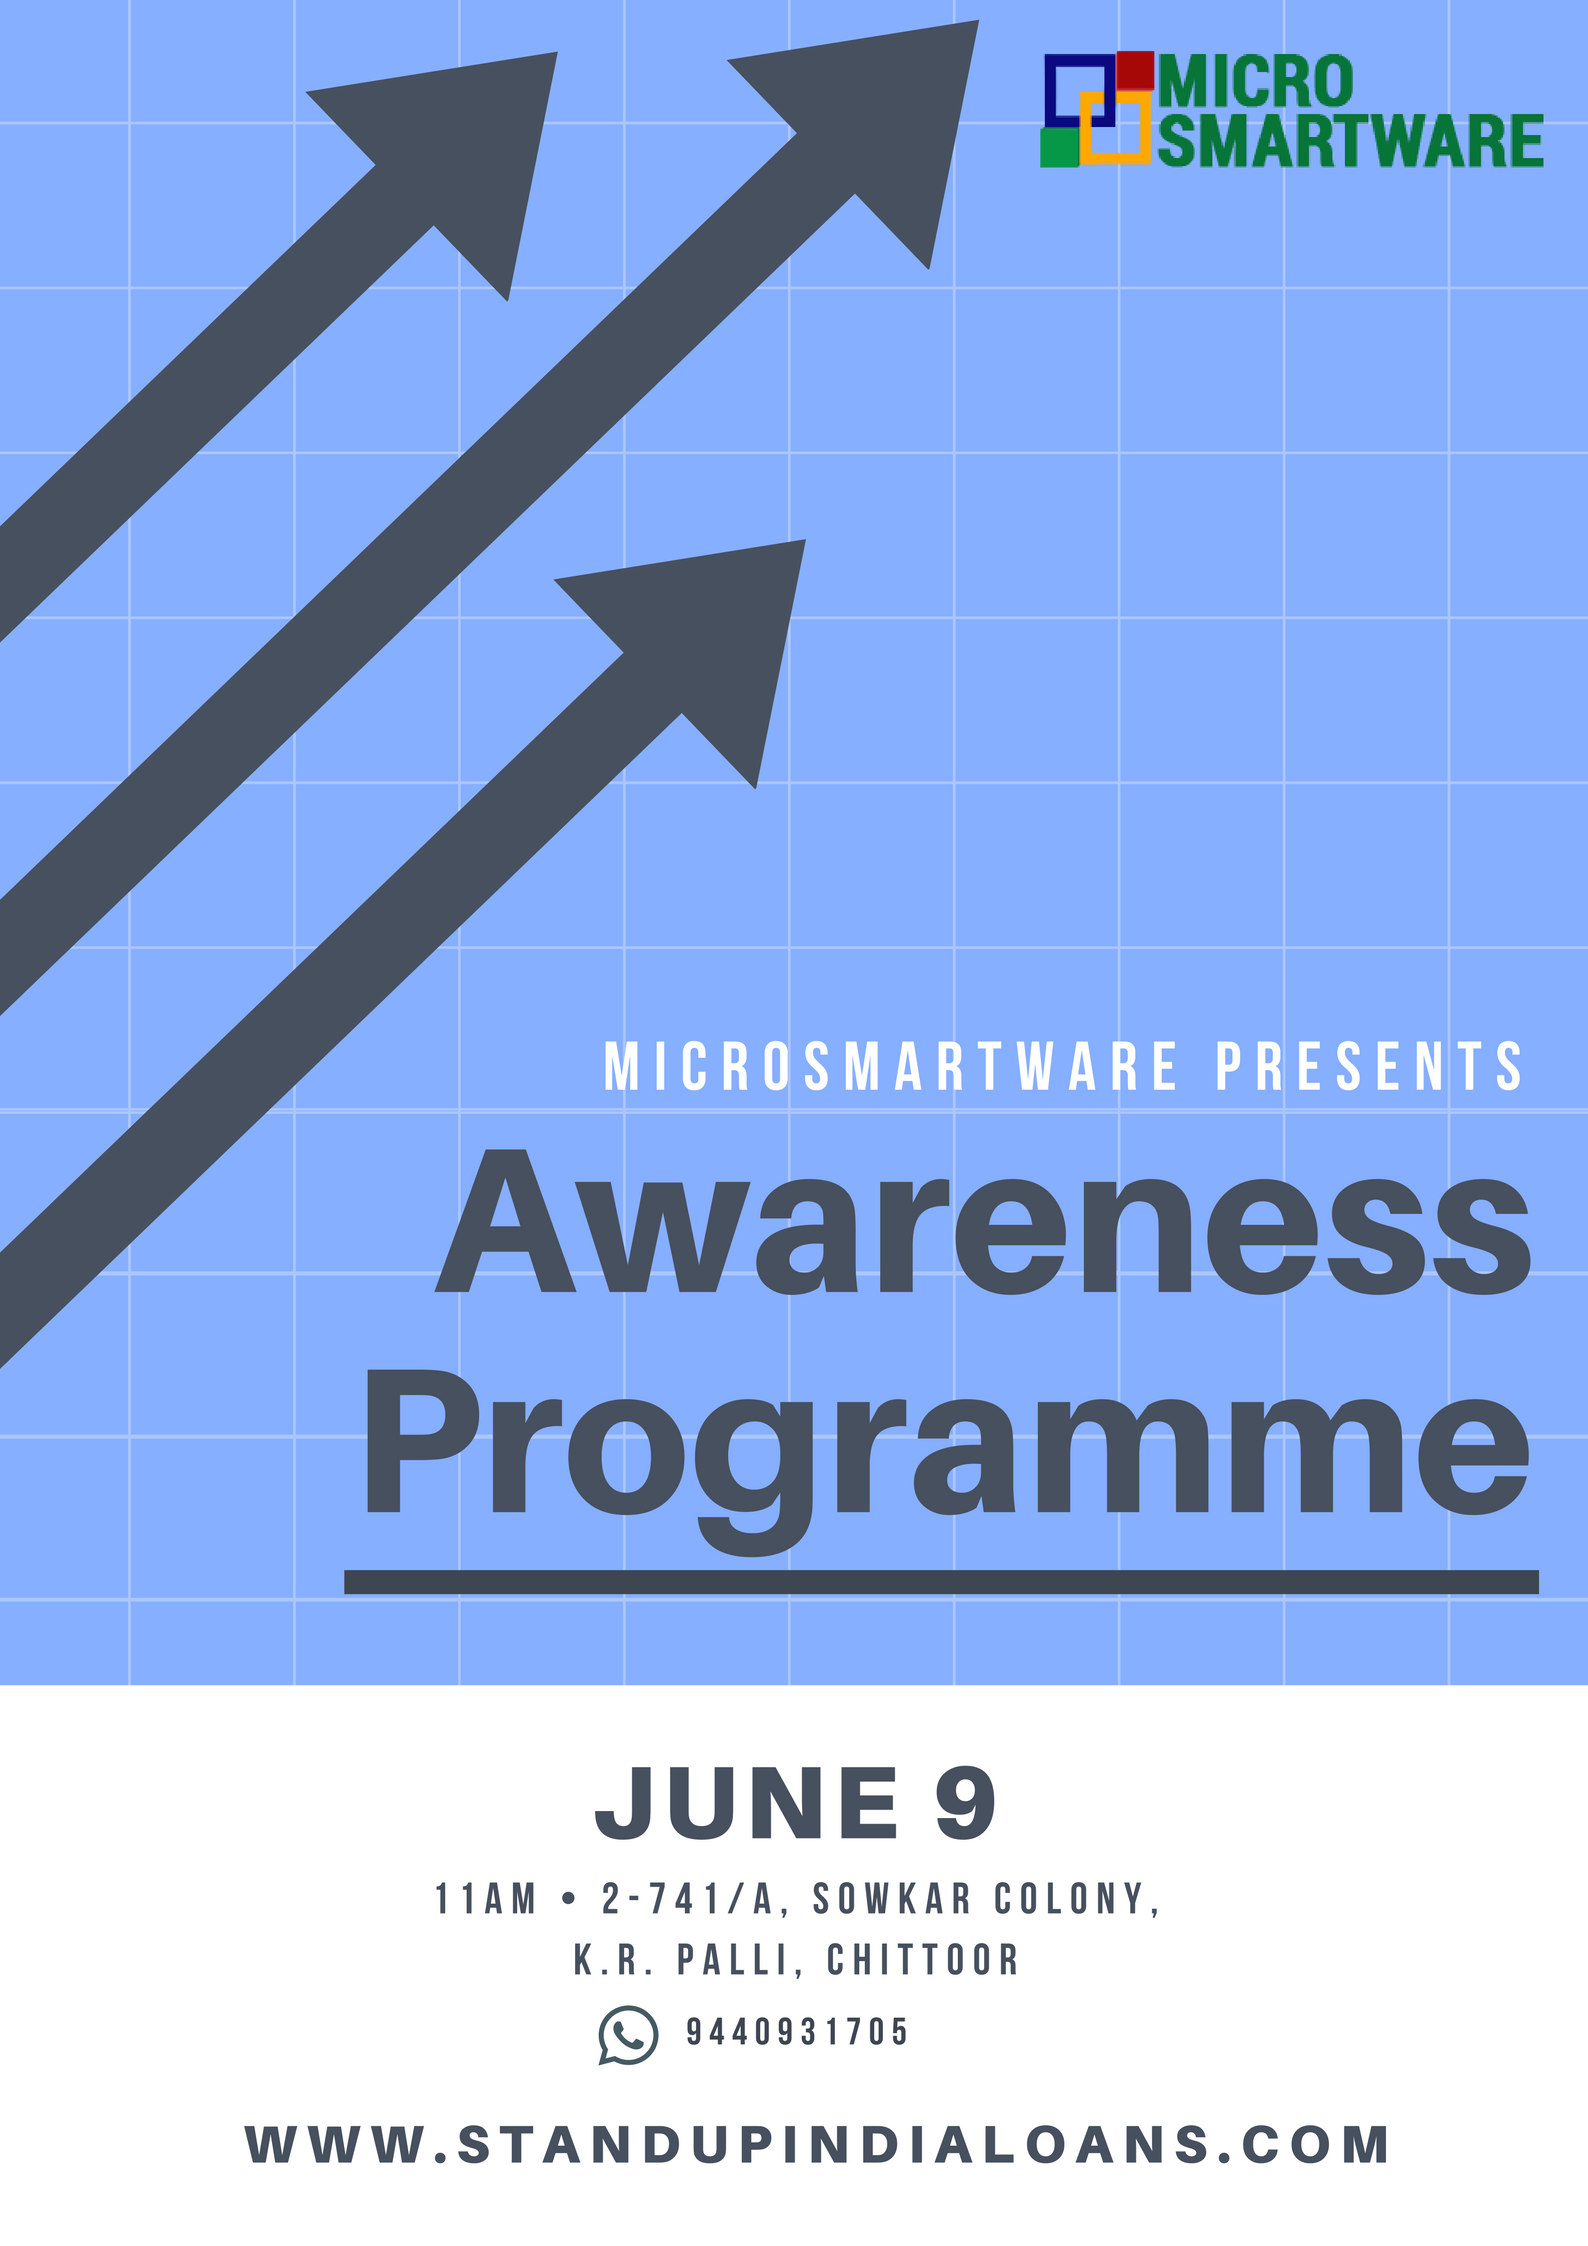
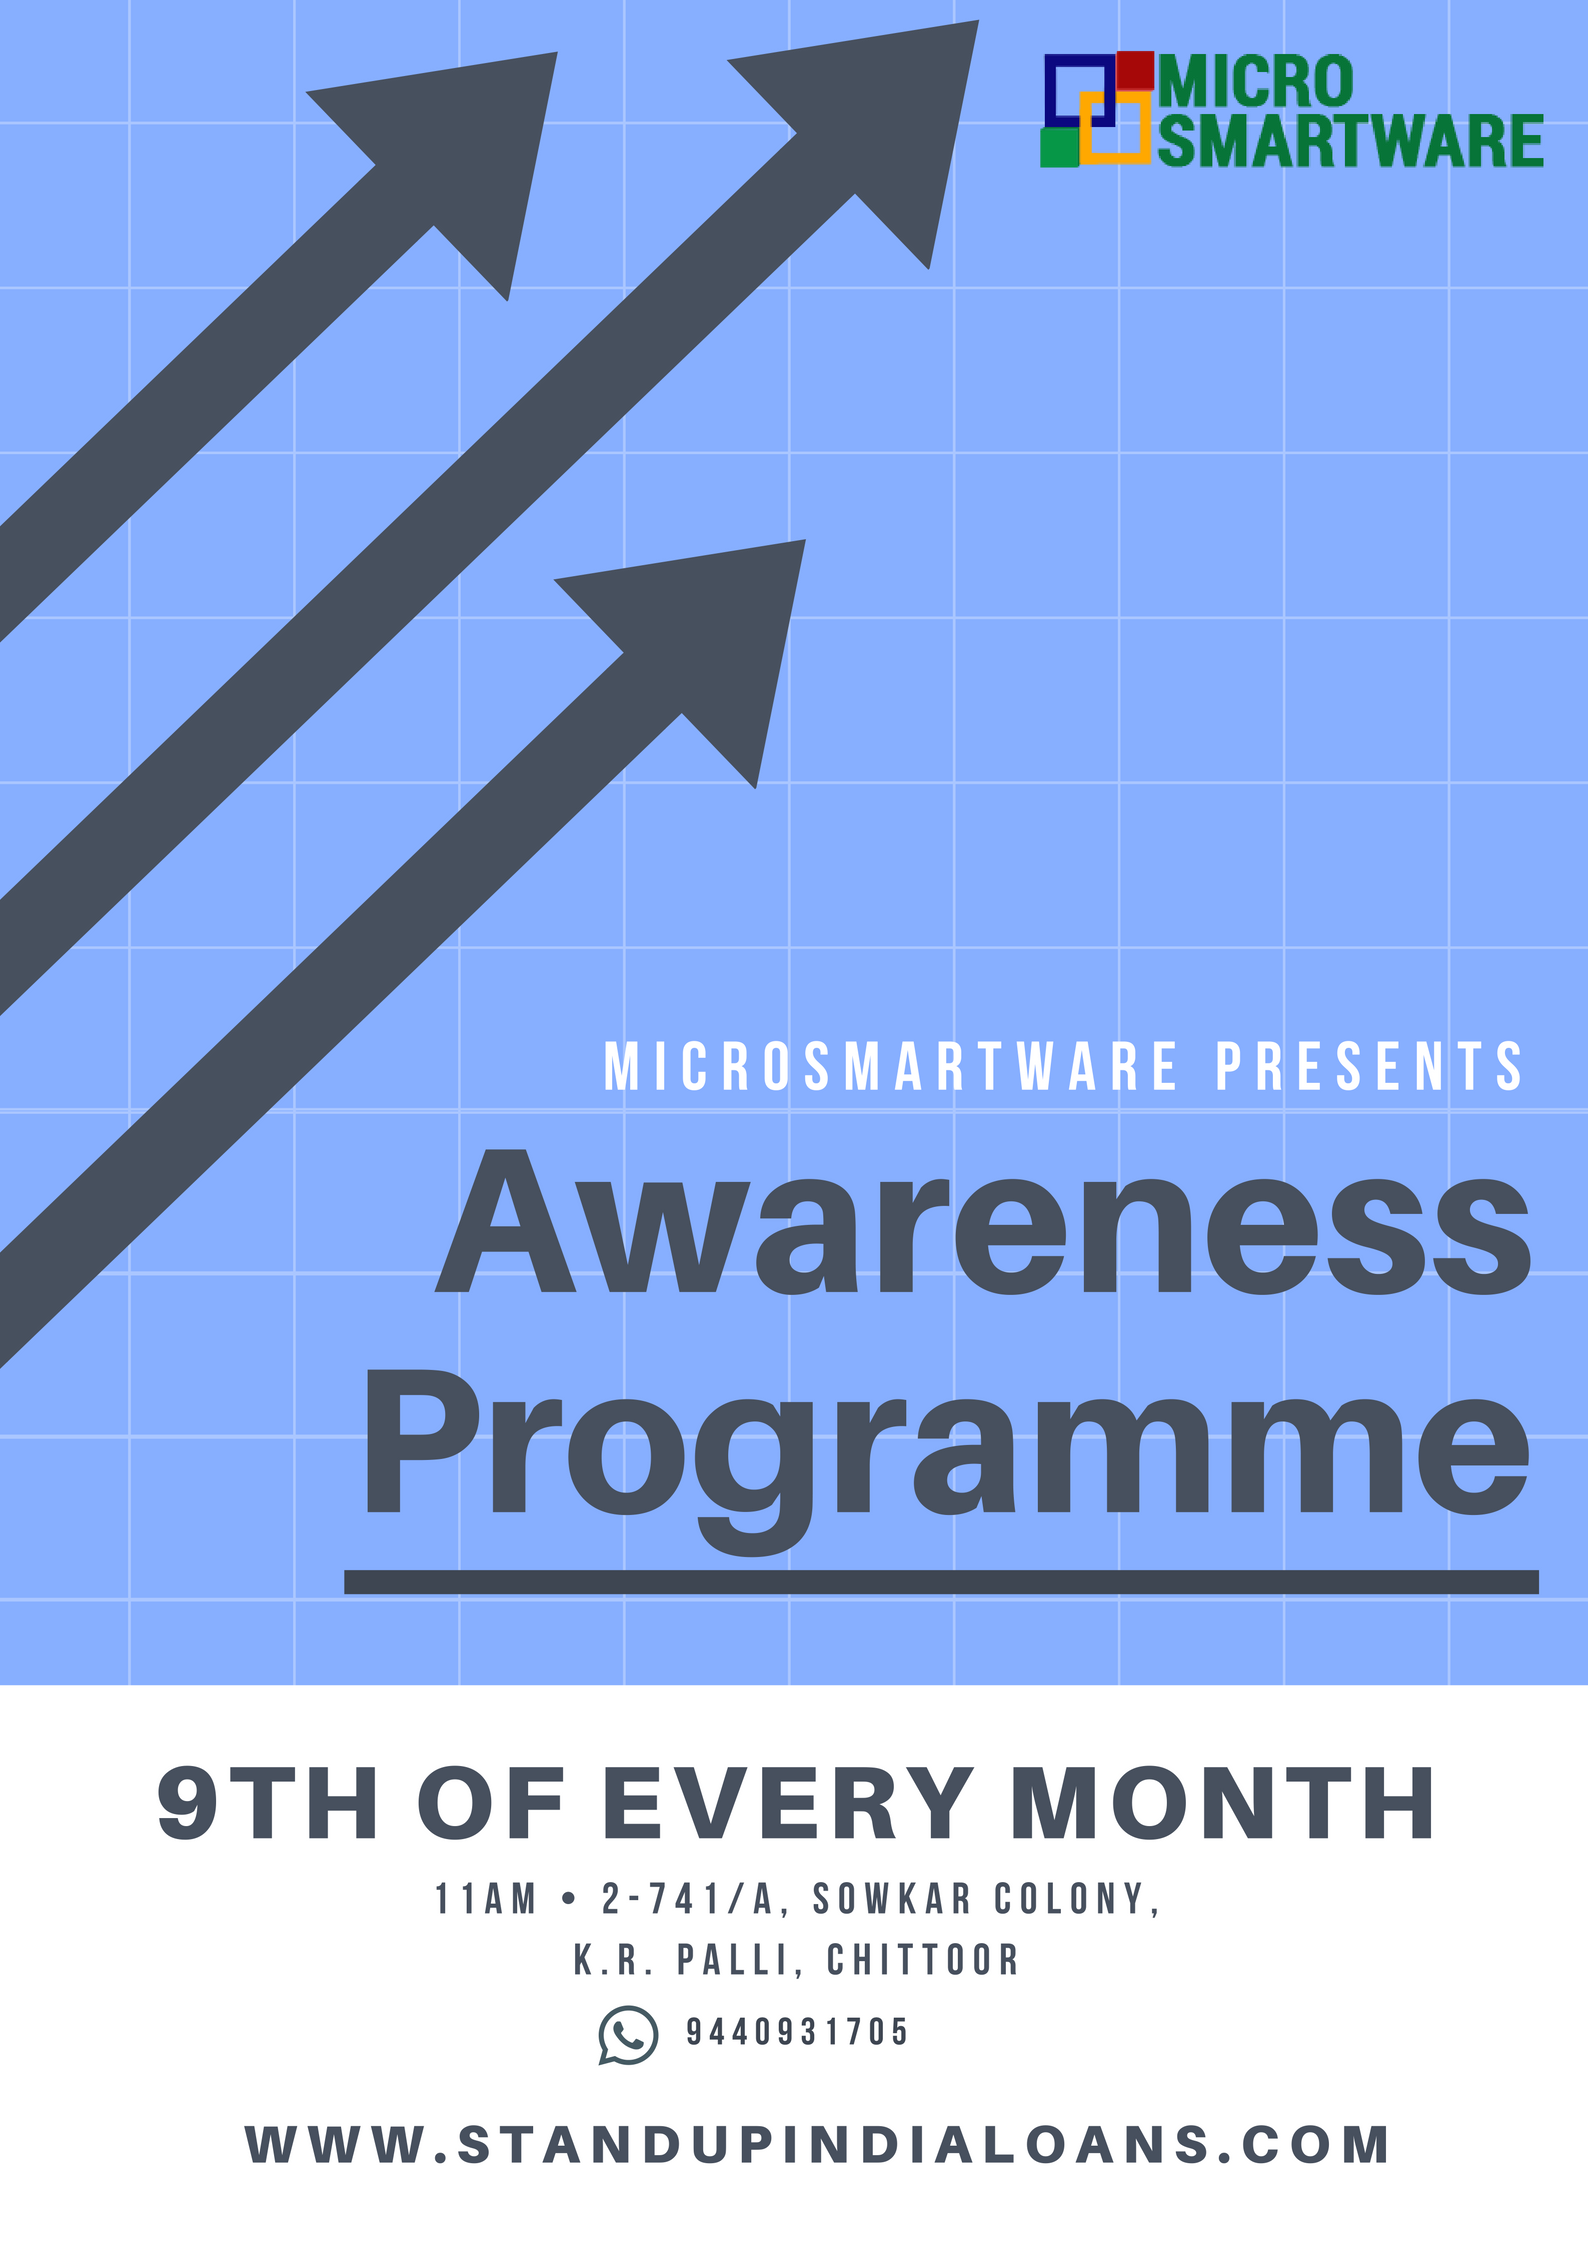
change event pics

Changed region(s): [[0.0926, 0.7792, 0.9257, 0.8415]]

diff --git a/src/components/Events.tsx b/src/components/Events.tsx
@@ -23,7 +23,7 @@ class Events extends React.Component<{}, {}> {
                             <div className="card-body">
                                 <h5 className="card-title">EDP Programme</h5>
                                 <p className="card-text">Entrepreneur Development Programme(EDP) <br />by DIC</p>
-				<img className="img-fluid" src="img/Awareness_Programme.png" />
+				<img className="img-fluid" src="img/EDP_Programme.png" />
 				<br />
                                 <a href="#" className="btn btn-primary">
                                     5th
@@ -37,11 +37,12 @@ class Events extends React.Component<{}, {}> {
                             <div className="card-body">
                                 <h5 className="card-title">Awareness Programme</h5>
                                 <p className="card-text"><small>Awareness programme on Economic support Schemes, Mudra Loans, PMEGP, StartUp India Loans, StandUp India Loans, MSME Loans and MEGA Loans by Microsmartware pvt ltd.</small></p>
-				<img className="img-fluid" src="img/EDP_Programme.png" />
+				
+				<img className="img-fluid" src="img/Awareness_Programme.png" />
 				<br />
 				<a href="#" className="btn btn-primary">
-                                    JUNE 9th
-				    <Timer endTime={moment("20180609", "YYYYMMDD").toISOString()} />
+                                    9th
+				    <Timer endTime={moment("20180709", "YYYYMMDD").toISOString()} />
                                 </a>
                             </div>
                         </div>
